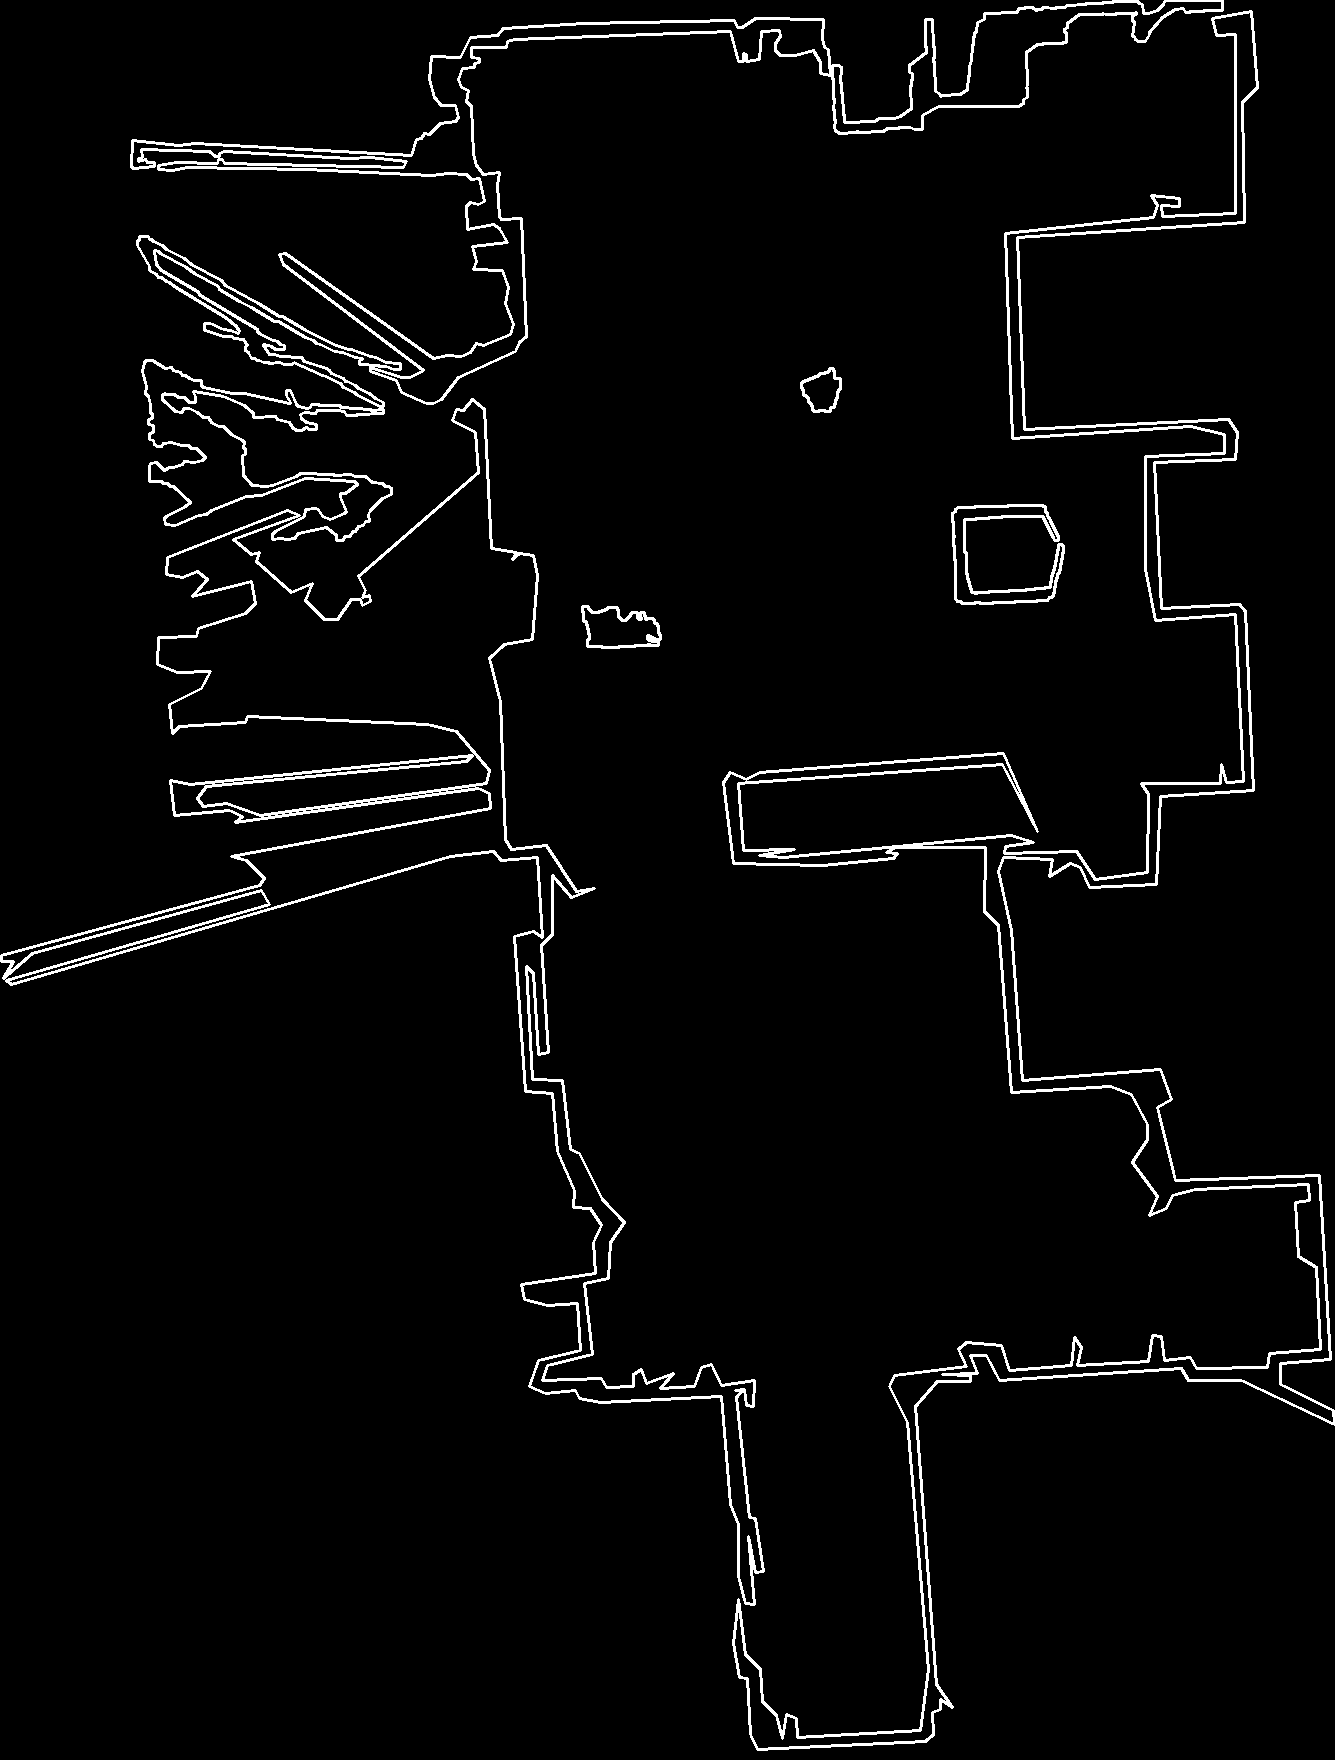
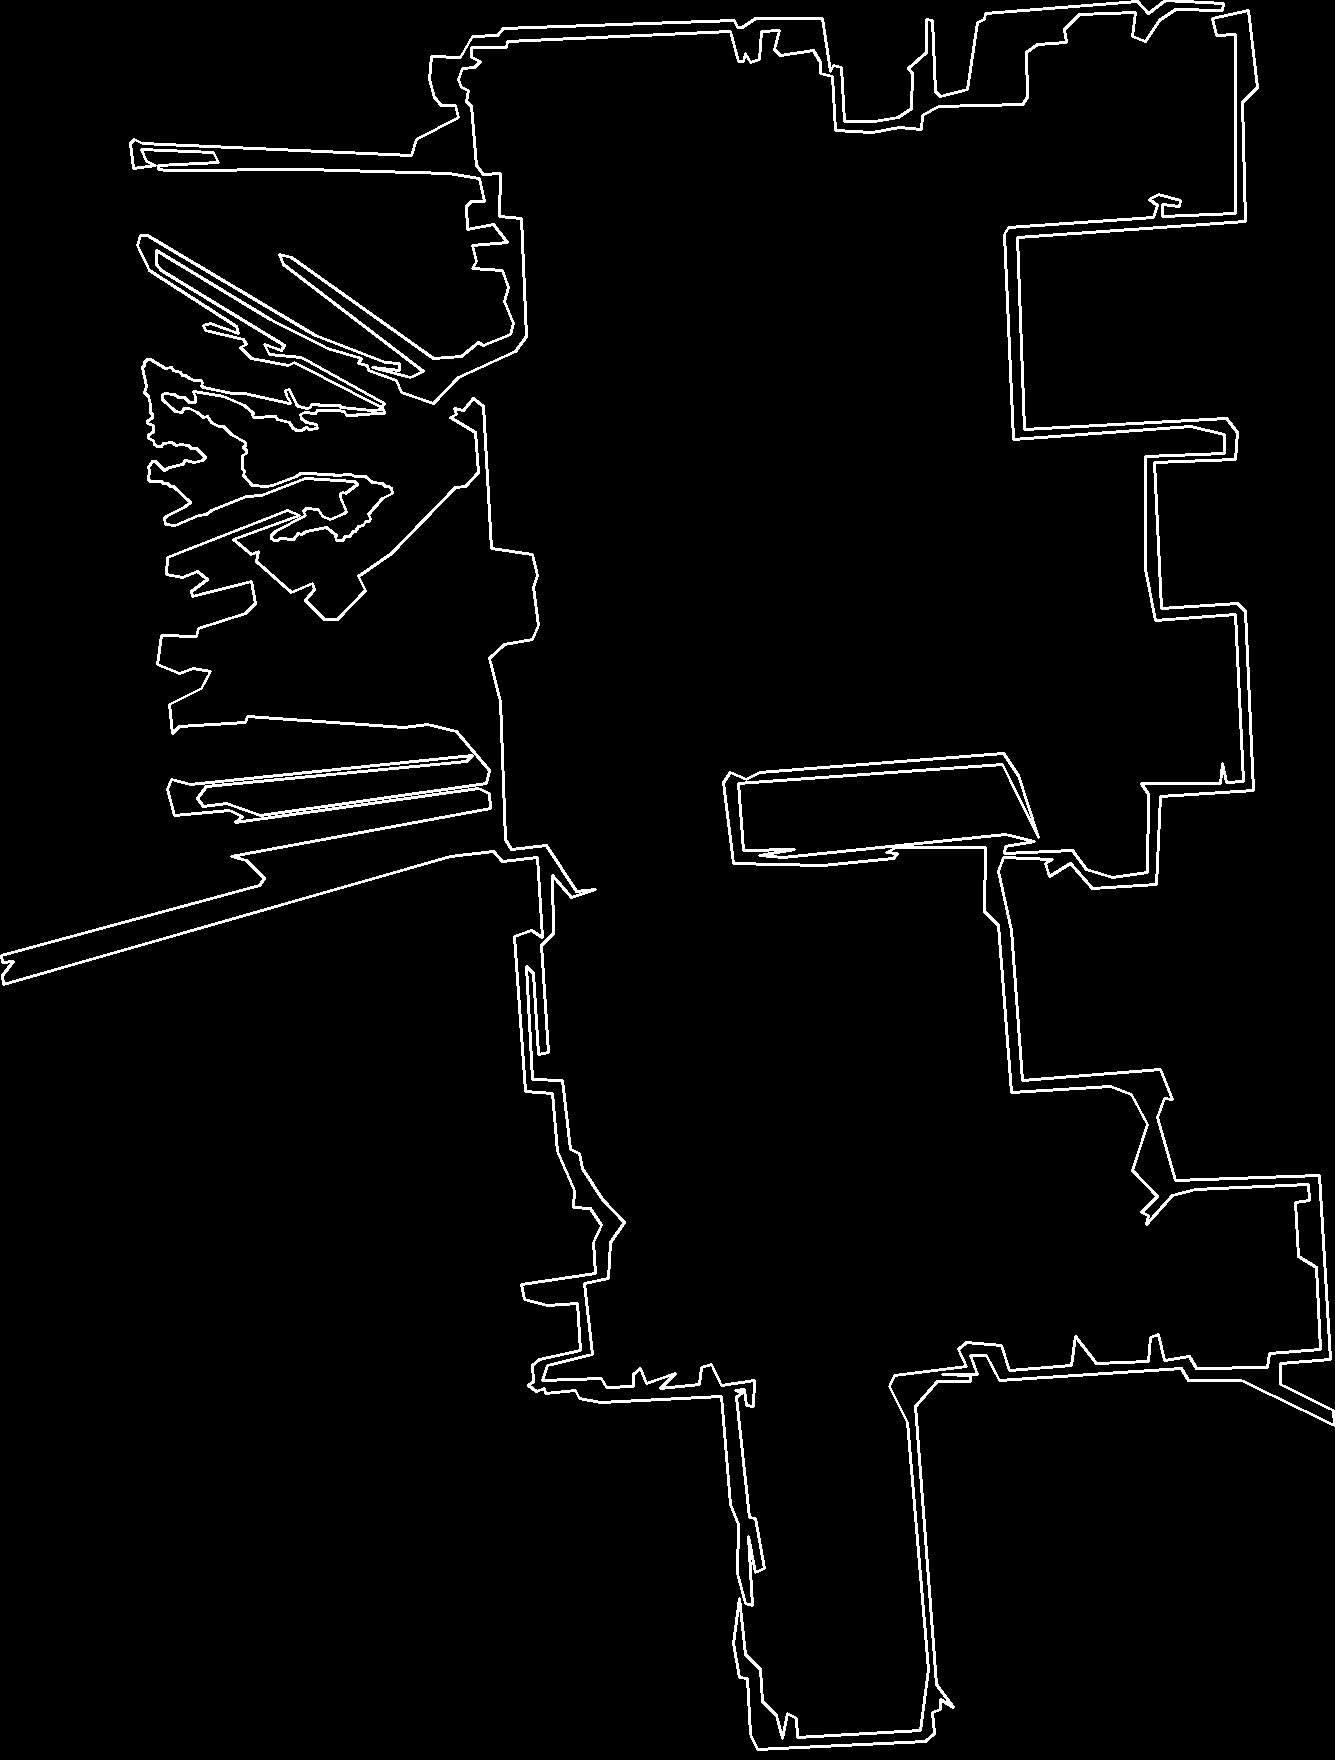
Add files via upload

diff --git a/utils.py b/utils.py
@@ -4,23 +4,26 @@ import numpy as np
 import matplotlib.pyplot as plt
 import math
 
+
 def noise_reduction(img):
-    blurred = cv2.medianBlur(img, 3) ## Removal of Salt and pepper noise
-    _, binary = cv2.threshold(blurred, 127, 255, cv2.THRESH_BINARY)  # Create binary image.
+    blurred = cv2.medianBlur(img, 3)  ## Removal of Salt and pepper noise
+    # _, binary = cv2.threshold(blurred, 127, 255, cv2.THRESH_BINARY)  # Create binary image.
     # kernel = np.ones((2, 2), np.uint8)  # Define the structuring element
     # closed = cv2.morphologyEx(binary, cv2.MORPH_CLOSE, kernel, iterations=2) # Apply Closing
     kernel = np.ones((2, 2), np.uint8)
     eroded = cv2.morphologyEx(blurred, cv2.MORPH_ERODE, kernel, iterations=2)  # Apply erosion
     return eroded
 
+
 def line_detection(img):
-    high_thresh, thresh_im = cv2.threshold(cv2.cvtColor(img, cv2.COLOR_BGR2GRAY), 0, 255, cv2.THRESH_BINARY + cv2.THRESH_OTSU)
-    lowThresh = 0.5*high_thresh
+    high_thresh, thresh_im = cv2.threshold(cv2.cvtColor(img, cv2.COLOR_BGR2GRAY), 0, 255,
+                                           cv2.THRESH_BINARY + cv2.THRESH_OTSU)
+    lowThresh = 0.5 * high_thresh
     ## 1. Canny Edge Detector
     edges = cv2.Canny(img, lowThresh, high_thresh)
     kernel = np.ones((2, 2), np.uint8)
     ## 2. Dilating the edges
-    morph = cv2.morphologyEx(edges, cv2.MORPH_DILATE, kernel) ## Dilate the edges
+    morph = cv2.morphologyEx(edges, cv2.MORPH_DILATE, kernel)  ## Dilate the edges
     # 3. Hough Transform with Adjusted Parameters
     gray = cv2.cvtColor(img, cv2.COLOR_BGR2GRAY)
     lines = cv2.HoughLinesP(morph, 1, np.pi / 180, 30, minLineLength=20, maxLineGap=15)  # Adjusted parameters
@@ -41,12 +44,15 @@ def line_detection(img):
             cv2.line(floor_plan, (x1, y1), (x2, y2), 255, 2)
     return floor_plan
 
+
 def morph_operation_to_get_line(img):
     # Morphological Operations
     kernel = np.ones((3, 3), np.uint8)
     morph = cv2.morphologyEx(img, cv2.MORPH_DILATE, kernel)
-    morph2 = cv2.morphologyEx(morph, cv2.MORPH_OPEN, kernel,iterations=2)
-    return morph2
+    # morph2 = cv2.morphologyEx(morph, cv2.MORPH_OPEN, kernel,iterations=2)
+
+    return morph
+
 
 # def contouring(combined_lines,morph):
 #     # gray_morph = cv2.cvtColor(morph, cv2.COLOR_BGR2GRAY)
@@ -95,12 +101,13 @@ def morph_operation_to_get_line(img):
 #           cv2.line(morph, cl[0][0], cl[0][1], (255, 255, 255), thickness=10)
 #     return morph
 
-def refine_boundary(img):
+def refine_boundary(img, area_min):
+    ###area_min: Minimum area for contour detection##
     contours, hierarchy = cv2.findContours(img, cv2.RETR_EXTERNAL, cv2.CHAIN_APPROX_NONE)
     refined_img = np.zeros_like(img)
     for contour in contours:
         # Check if the contour is closed (area > 0)
-        if cv2.contourArea(contour) > 1000:
+        if cv2.contourArea(contour) > area_min:
             # Approximate the contour with a polygon
             epsilon = 0.0005 * cv2.arcLength(contour, True)  # Adjust epsilon for accuracy
             approx = cv2.approxPolyDP(contour, epsilon, True)

diff --git a/main.py b/main.py
@@ -2,19 +2,19 @@ import cv2
 import numpy as np
 from utils import noise_reduction,line_detection,morph_operation_to_get_line,refine_boundary
 ### Getting Boundary ##
-def boundary(room_img,saved_file):
+def boundary(room_img,area_min,saved_file):
     room_img = cv2.imread(room_img)
     noise_reduced_img = noise_reduction(room_img)
     line_Detection = line_detection(noise_reduced_img)
     morphed_img = morph_operation_to_get_line(line_Detection)
-    refined_boundary = refine_boundary(morphed_img)
+    refined_boundary = refine_boundary(morphed_img,area_min)### area_min: adjuested according to different area of contour you want to include
     cv2.imwrite(saved_file,refined_boundary)
     print("Saved file")
     return refined_boundary
 if __name__ == "__main__":
     room1_path = 'room1.pgm'  # Replace with your image path
-    boundary(room1_path,"Room1_wall.png")
+    boundary(room1_path,10000,"Room1_wall.png")### area_min: adjuested according to different area of contour you want to include
     room2_path = 'room2.pgm'  # Replace with your image path
-    boundary(room2_path,"Room2_wall.png")
+    boundary(room2_path,10000,"Room2_wall.png")
     room3_path = 'room3.pgm'  # Replace with your image path
-    boundary(room3_path,"Room3_wall.png")
+    boundary(room3_path,10000,"Room3_wall.png")
